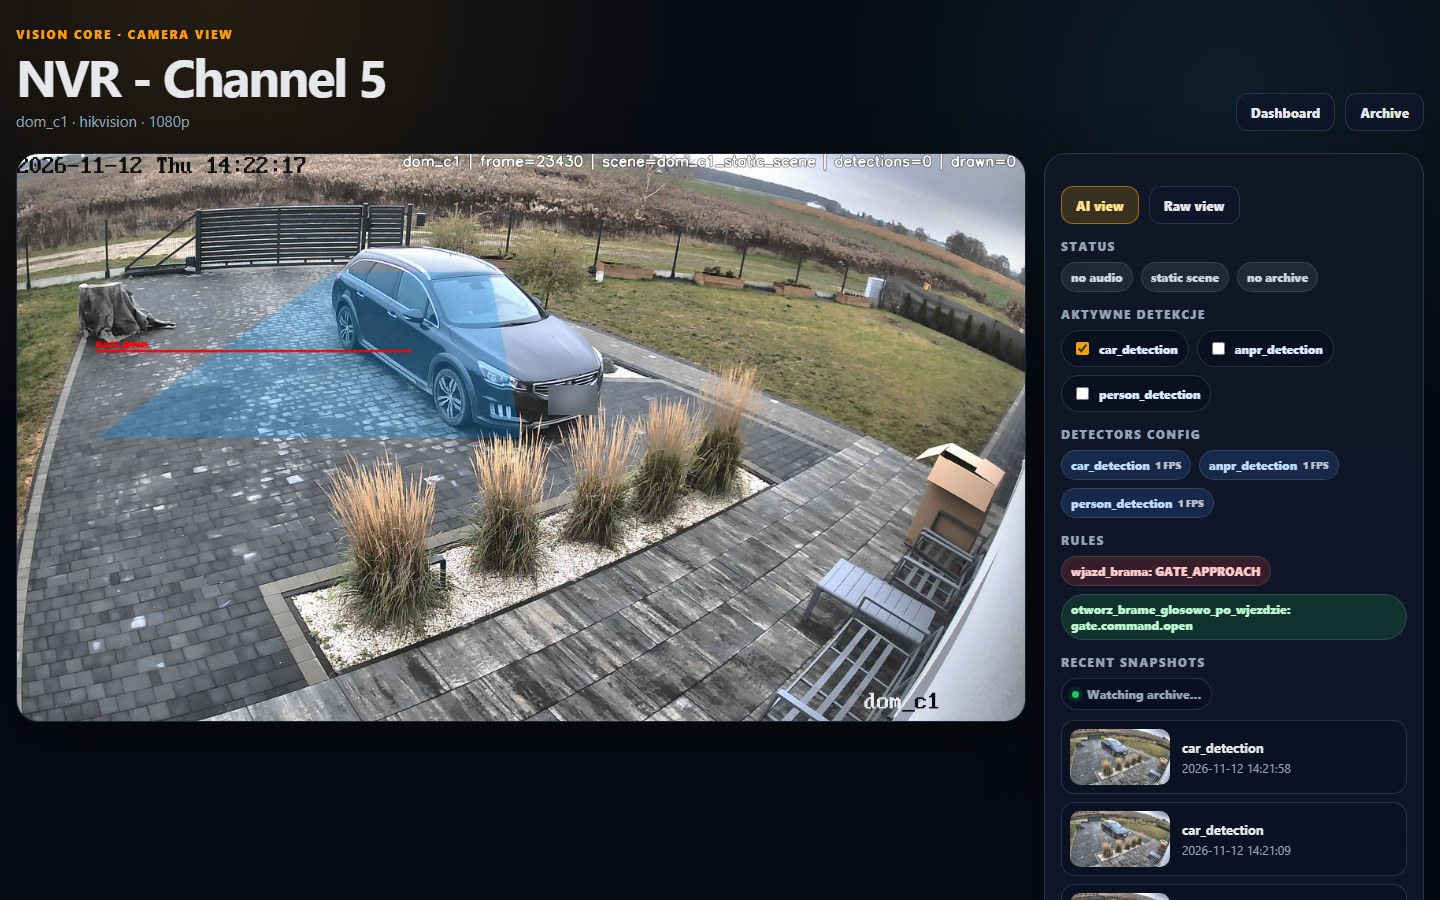
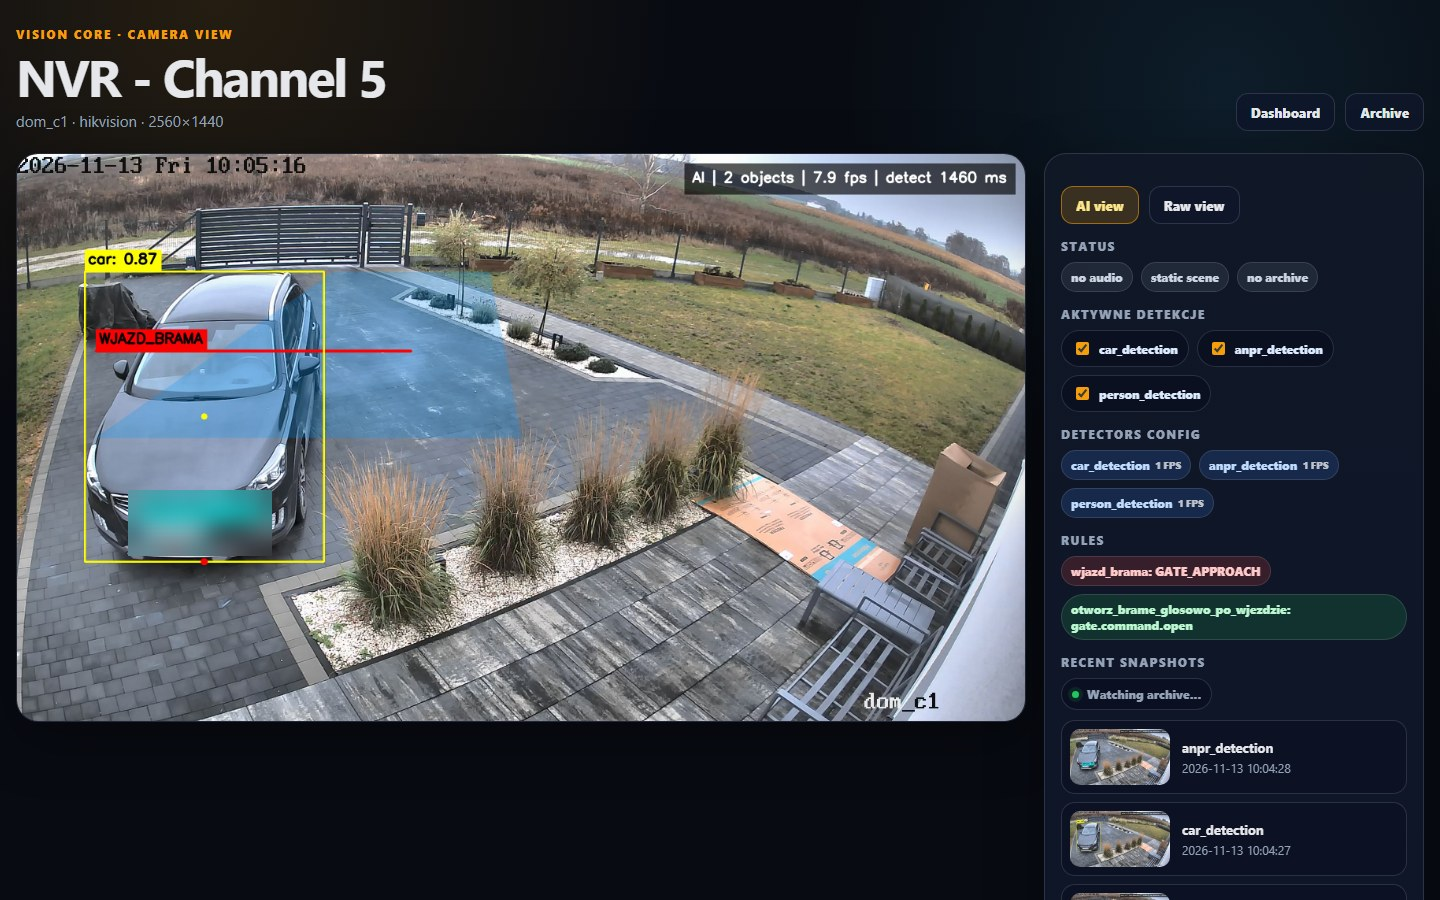
Refresh README for live health, CPU budget and new UI screenshots
- New dashboard screenshot with live status, resolution, FPS and
  detection time; camera view shows the status line and readable labels
  (licence plate and OCR text blurred)
- Pipeline section: frame budget, one inference at a time, still scenes
  in de-duplication, measured CPU timings per YOLOv8 size
- Component list updated for the threaded driver, crossing test,
  snapshot captions and CameraStatsRegistry
- Keep the dashboard's /status.json polling out of the access log

diff --git a/main.py b/main.py
@@ -1,3 +1,4 @@
+import logging
 import ssl
 from contextlib import asynccontextmanager
 
@@ -10,6 +11,16 @@ from presentation.api.routers.analytics import router as analytics_router
 from presentation.api.routers.streaming import router as cameras_router
 
 ssl._create_default_https_context = ssl._create_unverified_context
+
+
+class _SkipPolledEndpoints(logging.Filter):
+    """The dashboard polls /status.json every 2 s; keep it out of the access log."""
+
+    def filter(self, record: logging.LogRecord) -> bool:
+        return "/status.json" not in record.getMessage()
+
+
+logging.getLogger("uvicorn.access").addFilter(_SkipPolledEndpoints())
 
 
 @asynccontextmanager

diff --git a/README.md b/README.md
@@ -69,7 +69,9 @@ rules:
 Running five neural networks on 1440p streams on a CPU is not possible frame-by-frame, so the pipeline is built around **doing as little work as possible**:
 
 * **Motion gate first** — a downscaled background-subtraction `MotionFilter` decides whether anything moved, optionally only inside the camera's `motion_mask_polygon` (so wind in the trees outside the driveway is ignored). A parked car or an empty driveway costs almost nothing; the AI loop is skipped entirely.
-* **Per-detector FPS budget** — every camera declares its detectors with an `ai_fps` (e.g. cars at 1 FPS, chickens at 5 FPS). The worker runs each detector only when its interval has elapsed.
+* **Frame budget** — a camera hands at most `max_fps` frames per second (default 10) to the rest of the pipeline; every packet is still decoded, but only those frames are converted to arrays, motion-checked and streamed.
+* **Per-detector FPS budget** — every camera declares its detectors with an `ai_fps` (e.g. 1 FPS for cars and hens). The worker runs each detector only when its interval has elapsed.
+* **One inference at a time** — detectors and YOLO models are shared between cameras, and Ultralytics models are not thread-safe, so inference runs behind a single lock. On a CPU this is also faster than letting several models fight for the same cores.
 * **Off the event loop** — RTSP reading and H.264 decoding run in a thread per camera (with open/read timeouts), and inference runs in `asyncio.to_thread`, so one event loop serves all cameras, HTTP clients and workers without blocking.
 * **Event de-duplication** — a detection is published only when the scene actually changes:
 
@@ -81,7 +83,7 @@ Running five neural networks on 1440p streams on a CPU is not possible frame-by-
 | `scene_changed` | the PTZ camera moved to a different view |
 | `same_state_heartbeat` | periodic keep-alive for long, static presence |
 
-  The result: the archive contains **events**, not thousands of identical frames.
+  The result: the archive contains **events**, not thousands of identical frames. A still scene never counts as "the object left": only a detector run that finds nothing does, so a parked car is archived once.
 * **PTZ scene tracking** — a tile-based frame fingerprint (`SceneTracker`) detects when a PTZ camera switches view and resets the motion and detection state for the new scene.
 
 ### 🔎 Detectors
@@ -95,6 +97,18 @@ Running five neural networks on 1440p streams on a CPU is not possible frame-by-
 | `chicken_detection` | YOLOv8m (COCO *bird*) | counts and tracks hens in the coop (activity analytics) |
 
 Detectors implement one `BaseDetector` interface and are created lazily by a `DetectorProvider` factory; `DetectionModelProvider` caches weights so several detectors share one model instance.
+
+### ⏱ Running on a CPU
+
+Everything runs on a CPU-only home PC (12 logical cores, no GPU). One 2304×1296 coop frame at `imgsz=768`:
+
+| Model | Time per frame |
+| :--- | ---: |
+| YOLOv8m (used for hens) | ~1.2 s |
+| YOLOv8s | ~0.64 s |
+| YOLOv8n (used for cars and people) | ~0.32 s |
+
+With three cameras (driveway: cars, plates, people; two coop cameras: hens) at 1 FPS per detector, the CPU is the limit, which is why the motion gate, the frame budget and the per-detector FPS budgets matter. The dashboard shows each camera's real FPS and detection time, so an overloaded camera is visible at a glance.
 
 ---
 
@@ -139,13 +153,17 @@ Every subscriber gets a bounded `asyncio.Queue` with a **latest-wins** policy: w
 
 ## 🖥 Web UI
 
+<img src="docs/images/ui_dashboard.jpg" alt="Dashboard with three cameras, their live status, real resolution, FPS and detection time" width="900"/>
+
+*The dashboard: each card shows whether the stream is live, stalled or offline, the resolution actually received, the camera's FPS and how long its detectors take, refreshed every 2 seconds.*
+
 | Camera view | Event archive |
 | :---: | :---: |
 | <img src="docs/images/ui_camera_view.jpg" width="440"/> | <img src="docs/images/ui_archive.jpg" width="440"/> |
-| Live MJPEG stream with switchable AI overlays, detector config, rules and recent snapshots | Every de-duplicated event is stored as an annotated snapshot + a CSV row per bounding box |
+| Live MJPEG stream with switchable AI overlays, a status line (objects, FPS, detection time), detector config, rules and recent snapshots | Every de-duplicated event is stored as an annotated snapshot + a CSV row per bounding box |
 
-* **`/dashboard`** — grid of all active cameras (raw or AI thumbnails).
-* **`/view?cam=<id>`** — single camera with toggles for each detector, raw/AI mode, audio level and live transcript overlay.
+* **`/dashboard`** — grid of all active cameras (raw or AI thumbnails) with live stream health.
+* **`/view?cam=<id>`** — single camera with toggles for each detector, raw/AI mode, audio level and live transcript overlay. Boxes stay on screen while the scene is still, so a parked car keeps its box.
 * **`/archive`** — browsable snapshot archive per camera and stream session.
 * **`/analytics/plot`** — activity timeline and spatial heat-map (used to monitor chicken activity in the coop).
 
@@ -186,14 +204,15 @@ Charts are reproducible with [`tools/make_readme_charts.py`](tools/make_readme_c
 ## 🧩 Core Components Deep Dive
 
 * **`AppOrchestrator`** — composition root: builds the buses and managers, starts/stops everything from FastAPI's `lifespan`.
-* **`CameraDriver`** — opens RTSP over TCP with `nobuffer`/`low_delay`, demuxes video and audio, resamples audio to 16 kHz mono and reconnects automatically on errors.
+* **`CameraDriver`** — reads RTSP over TCP with `nobuffer`/`low_delay` in its own thread, with open/read timeouts; demuxes video and audio, resamples audio to 16 kHz mono, hands the newest frame to the event loop and reconnects automatically. Stream credentials are stripped from every logged error.
 * **`DetectionWorker`** — per-camera loop: scene check → motion gate → FPS-budgeted detectors → render cache → event de-duplication → publishes annotated frames and events.
-* **`AutomationRuleEngine`** — evaluates tripwire rules on AI frames with per-rule cooldowns.
+* **`AutomationRuleEngine`** — tests whether a ground point crossed a tripwire segment in the configured direction ([`tripwire.py`](src/infrastructure/automation/tripwire.py)), with per-rule cooldowns.
 * **`MultimodalGateAutomationEngine`** — correlates visual and speech events within a time window, with text normalisation (diacritics-insensitive phrase matching).
 * **`SpeechWorker` + `FasterWhisperSpeechRecognizer`** — sliding-window transcription (4 s window every 1 s; Whisper *small*, int8, Polish) with duplicate-text suppression; recognisers are swappable behind `BaseSpeechRecognizer`.
 * **`FaceIdentityStore`** — builds and hot-reloads an index of known faces from `data/faces/known/<person>/`.
-* **`ArchiveWriter`** — writes annotated snapshots and a long-format CSV used by analytics.
-* **`LiveStreamHandler` + `FrameRenderer`** — MJPEG encoder with FPS/quality/width limits, drawing boxes, tripwires, motion masks and the audio overlay.
+* **`ArchiveWriter`** — writes annotated snapshots (captioned with camera, detector, object count, archive reason and time) and a long-format CSV used by analytics.
+* **`LiveStreamHandler` + `FrameRenderer`** — MJPEG encoder with FPS/quality/width limits, drawing boxes, tripwires, motion masks, a status line and the audio overlay; sizes scale with the frame resolution.
+* **`CameraStatsRegistry`** — live per-camera health (stream state, real resolution, FPS, detector timings) behind the dashboard and `/status.json`.
 
 ---
 
